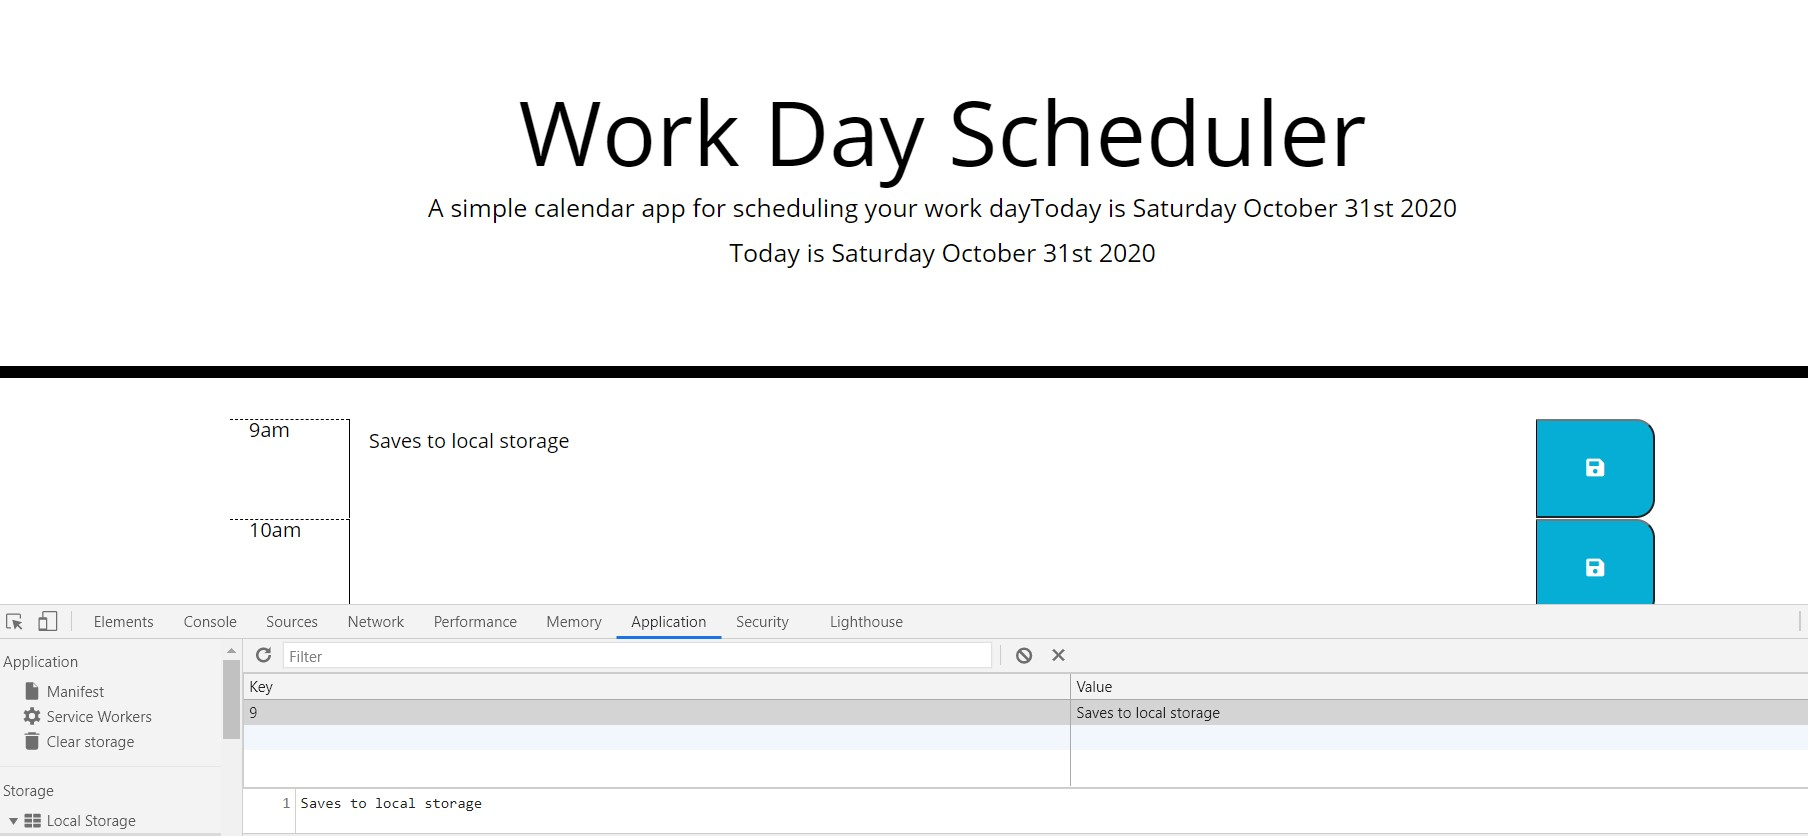
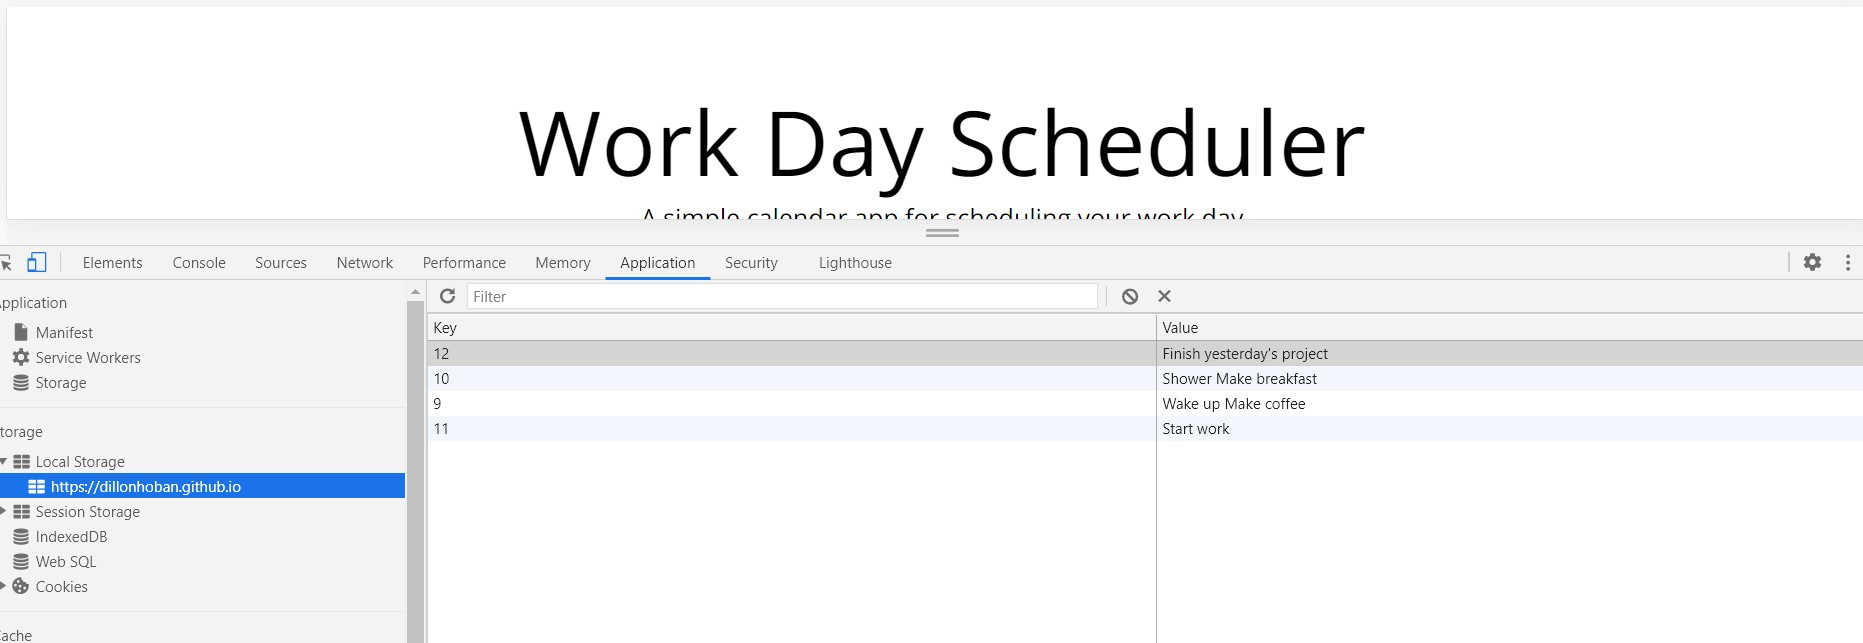
updating read me

diff --git a/README.md b/README.md
@@ -4,7 +4,11 @@ A dynamic calendar for Homework 5 powered by jQuery
 ![App image](Assets/images/screenshot_main_app.jpg)
 
 ## Description 
-The challenge was to build a simple and functional workday calender. I was able to get the bones of the app built but failed to add the full functionality to my program. I hope to continue updating the project and figure out how to solve the problems I have encountered. 
+The challenge was to build a simple and functional workday calender. The data added to each textarea was to be saved to local storage and persist upon reload. Additionally, the color of each text area was required to change upon each hour. 
+
+## Local Storage
+
+![Local Storage image](Assets/images/screenshot/../screenshot_local_storage.jpg)
 
 ## Deployment
 Click the link [here](https://dillonhoban.github.io/jQuery_Calender/) to check out my site in your browser.
